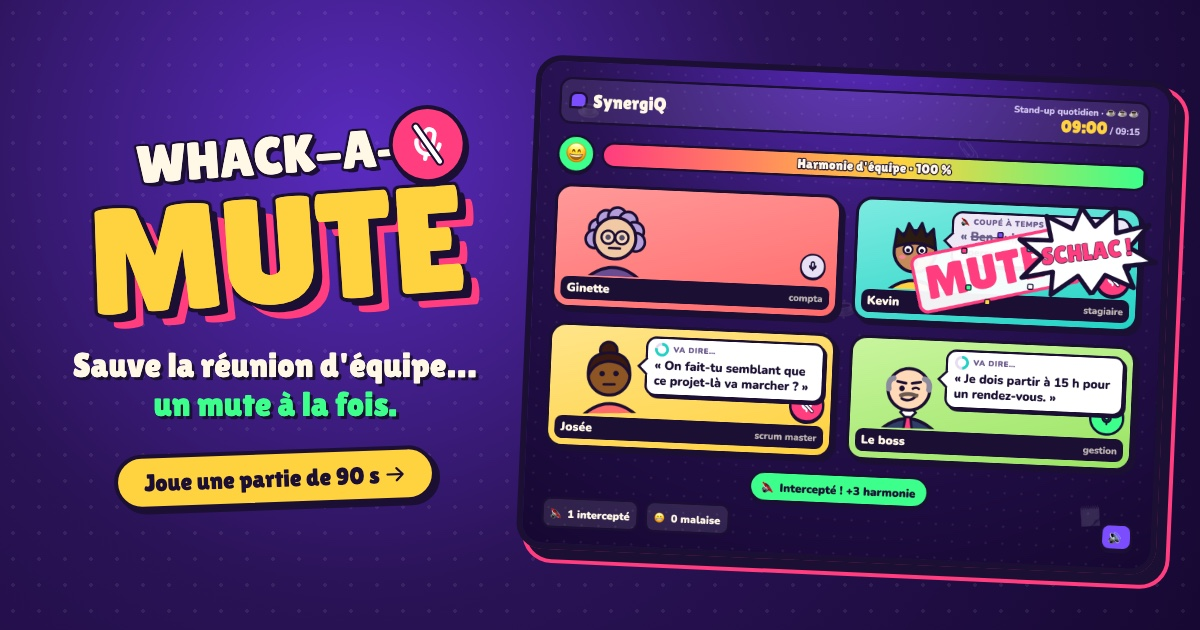
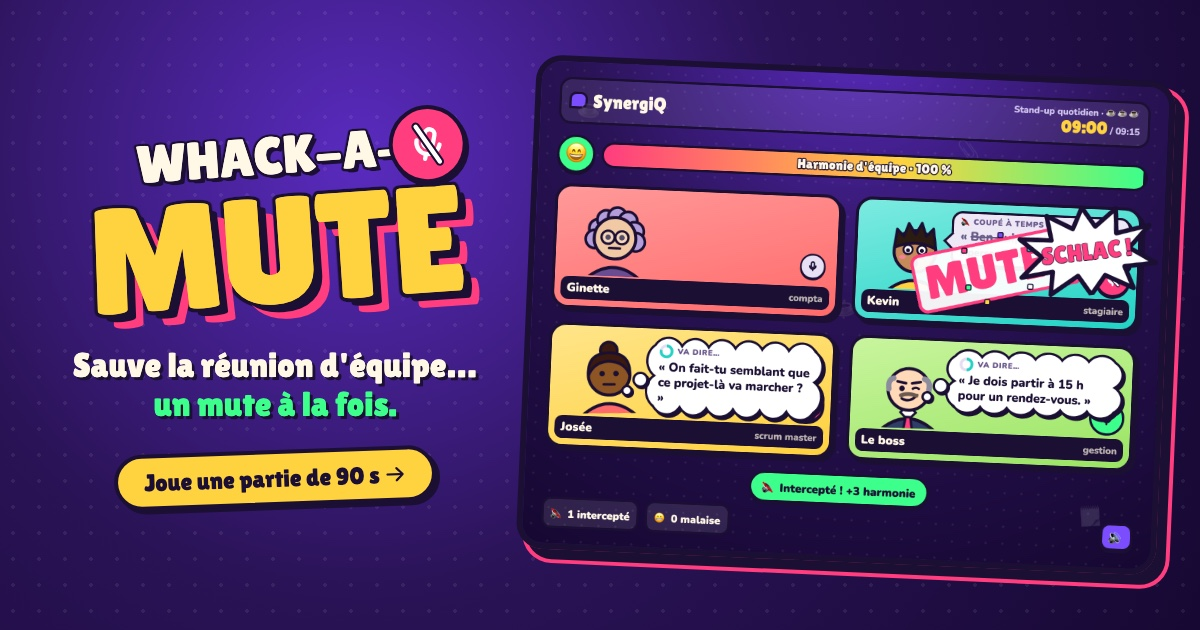
Bulle-pensée en nuage pour ce qui va être dit (#10)

Changed region(s): [[0.4933, 0.5127, 0.7092, 0.6937], [0.7708, 0.5429, 0.9558, 0.6937]]

diff --git a/tests/e2e/parcours.spec.ts b/tests/e2e/parcours.spec.ts
@@ -163,14 +163,16 @@ test("R-37 : le texte des bulles a un contraste d'au moins 4,5:1", async ({ page
       return (l1! + 0.05) / (l2! + 0.05);
     };
     // Toutes les variantes de bulles, rendues hors écran avec les vraies classes.
-    const variants = ["bubble", "bubble said normal", "bubble said blunder", "bubble hushed", "bubble hushed wrong"];
+    const variants = ["bubble think", "bubble said normal", "bubble said blunder", "bubble hushed", "bubble hushed wrong"];
     const host = document.querySelector(".tile")!;
     return variants.map((cls) => {
       const b = document.createElement("div");
       b.className = cls;
-      b.innerHTML = '<div class="tag">tag</div><q>texte</q><span class="note">note</span>';
+      b.innerHTML =
+        '<svg class="cloud" viewBox="0 0 240 100"><path d="M0 0H240V100H0Z"/></svg><div class="tag">tag</div><q>texte</q><span class="note">note</span>';
       host.appendChild(b);
-      const bg = getComputedStyle(b).backgroundColor;
+      // La bulle-pensée (#10) tient son fond dans le nuage SVG ; les autres, dans leur arrière-plan.
+      const bg = cls.includes("think") ? getComputedStyle(b.querySelector(".cloud path")!).fill : getComputedStyle(b).backgroundColor;
       const out = [b.querySelector("q")!, b.querySelector(".tag")!, b.querySelector(".note")!].map((el) => ratio(getComputedStyle(el).color, bg));
       b.remove();
       return { cls, min: Math.min(...out) };
@@ -224,4 +226,17 @@ test("#4 : icônes d'onglet et d'écran d'accueil, avec un manifeste", async ({ 
     const res = await request.get(new URL(icon.src, manifestUrl).href);
     expect(res.headers()["content-type"]).toContain("image/png");
   }
+});
+
+test("#10 : ce qui va être dit est une bulle-pensée ; ce qui est dit, une bulle de parole", async ({ page }) => {
+  test.setTimeout(30_000);
+  await page.goto("./?seed=pensee&participants=4&cafe=3&vitesse=2");
+  await start(page);
+  const announcing = page.locator('.tile[data-state="announcing"]').first();
+  await expect(announcing).toBeVisible({ timeout: 10_000 });
+  await expect(announcing.locator(".bubble.think .cloud")).toHaveCount(1);
+  const said = page.locator('.tile[data-state="normal"], .tile[data-state="blunder"]').first();
+  await expect(said).toBeVisible({ timeout: 15_000 });
+  await expect(said.locator(".bubble.said")).toHaveCount(1);
+  await expect(said.locator(".bubble.think, .cloud")).toHaveCount(0);
 });

diff --git a/src/ui/app.css b/src/ui/app.css
@@ -689,6 +689,51 @@ q {
   border-bottom: var(--line) solid var(--ink);
   transform: rotate(45deg);
 }
+/* Bulle-pensée (#10) : ce que le personnage s'apprête à dire. Nuage festonné et petits ronds
+   qui remontent vers la tête ; la bulle carrée à pointe est réservée à ce qui est vraiment dit. */
+.bubble.think {
+  background: none;
+  border: 0;
+  box-shadow: none;
+  border-radius: 0;
+  padding: 10px clamp(11px, 5cqw, 18px) 12px;
+}
+.bubble.think .cloud {
+  position: absolute;
+  inset: -4px;
+  width: calc(100% + 8px);
+  height: calc(100% + 8px);
+  z-index: -1;
+  overflow: visible;
+  filter: drop-shadow(3px 3px 0 var(--ink));
+}
+.bubble.think .cloud path {
+  fill: var(--bubble);
+  stroke: var(--ink);
+  stroke-width: var(--line);
+}
+.bubble.think::before,
+.bubble.think::after {
+  content: "";
+  position: absolute;
+  border-radius: 50%;
+  background: var(--bubble);
+  border: var(--line) solid var(--ink);
+  box-shadow: 2px 2px 0 var(--ink);
+  transform: none;
+}
+.bubble.think::before {
+  left: 26px;
+  bottom: -15px;
+  width: 15px;
+  height: 15px;
+}
+.bubble.think::after {
+  left: 16px;
+  bottom: -29px;
+  width: 9px;
+  height: 9px;
+}
 .bubble .tag {
   display: flex;
   align-items: center;
@@ -763,6 +808,17 @@ q {
     bottom: auto;
     top: 28px;
     transform: rotate(135deg);
+  }
+  .bubble.think::before {
+    left: -16px;
+    bottom: auto;
+    top: 46%;
+  }
+  .bubble.think::after {
+    left: -30px;
+    bottom: auto;
+    top: calc(46% + 18px);
+    transform: none;
   }
   .stamp,
   .spark {

diff --git a/src/ui/Tile.tsx b/src/ui/Tile.tsx
@@ -5,7 +5,7 @@ import type { ParticipantId } from "../engine/config";
 import type { Outcome, Participant } from "../engine/state";
 import { turnProgress } from "../engine/step";
 import { Avatar, type Mood } from "./Avatar";
-import { Boom, MicIcon } from "./Icons";
+import { Boom, MicIcon, ThoughtCloud } from "./Icons";
 import { STRINGS } from "./strings.fr";
 
 const COLOR: Record<ParticipantId, string> = { ginette: "coral", kevin: "turq", josee: "sun", boss: "lime" };
@@ -74,7 +74,8 @@ export const Tile = memo(function Tile({ p, t, reacting, justJoined, debug, onTa
       transition={{ type: "spring", stiffness: 520, damping: 16 }}
     >
       {state === "announcing" && p.turn && (
-        <div className="bubble" key={p.turn.line.id} style={{ ["--p" as string]: progress }}>
+        <div className="bubble think" key={p.turn.line.id} style={{ ["--p" as string]: progress }}>
+          <ThoughtCloud className="cloud" />
           <div className="tag">
             <svg className="timer" viewBox="0 0 20 20" aria-hidden="true">
               <circle cx="10" cy="10" r="8" className="timer-track" />

diff --git a/src/ui/Icons.tsx b/src/ui/Icons.tsx
@@ -44,3 +44,15 @@ export function Boom({ text, className }: { text: string; className?: string }) 
     </svg>
   );
 }
+
+/**
+ * Contour festonné de la bulle-pensée (#10) : convention de bande dessinée pour « ce qu'il s'apprête à dire ».
+ * Étiré à la taille de la bulle ; le trait garde son épaisseur grâce à `non-scaling-stroke`.
+ */
+export function ThoughtCloud({ className }: { className?: string }) {
+  return (
+    <svg className={className} viewBox="0 0 240 100" preserveAspectRatio="none" aria-hidden="true">
+      <path d="M16 14A20.8 20.8 0 0 1 50.7 14A20.8 20.8 0 0 1 85.3 14A20.8 20.8 0 0 1 120 14A20.8 20.8 0 0 1 154.7 14A20.8 20.8 0 0 1 189.3 14A20.8 20.8 0 0 1 224 14A21.6 21.6 0 0 1 224 50A21.6 21.6 0 0 1 224 86A20.8 20.8 0 0 1 189.3 86A20.8 20.8 0 0 1 154.7 86A20.8 20.8 0 0 1 120 86A20.8 20.8 0 0 1 85.3 86A20.8 20.8 0 0 1 50.7 86A20.8 20.8 0 0 1 16 86A21.6 21.6 0 0 1 16 50A21.6 21.6 0 0 1 16 14Z" vectorEffect="non-scaling-stroke" />
+    </svg>
+  );
+}
